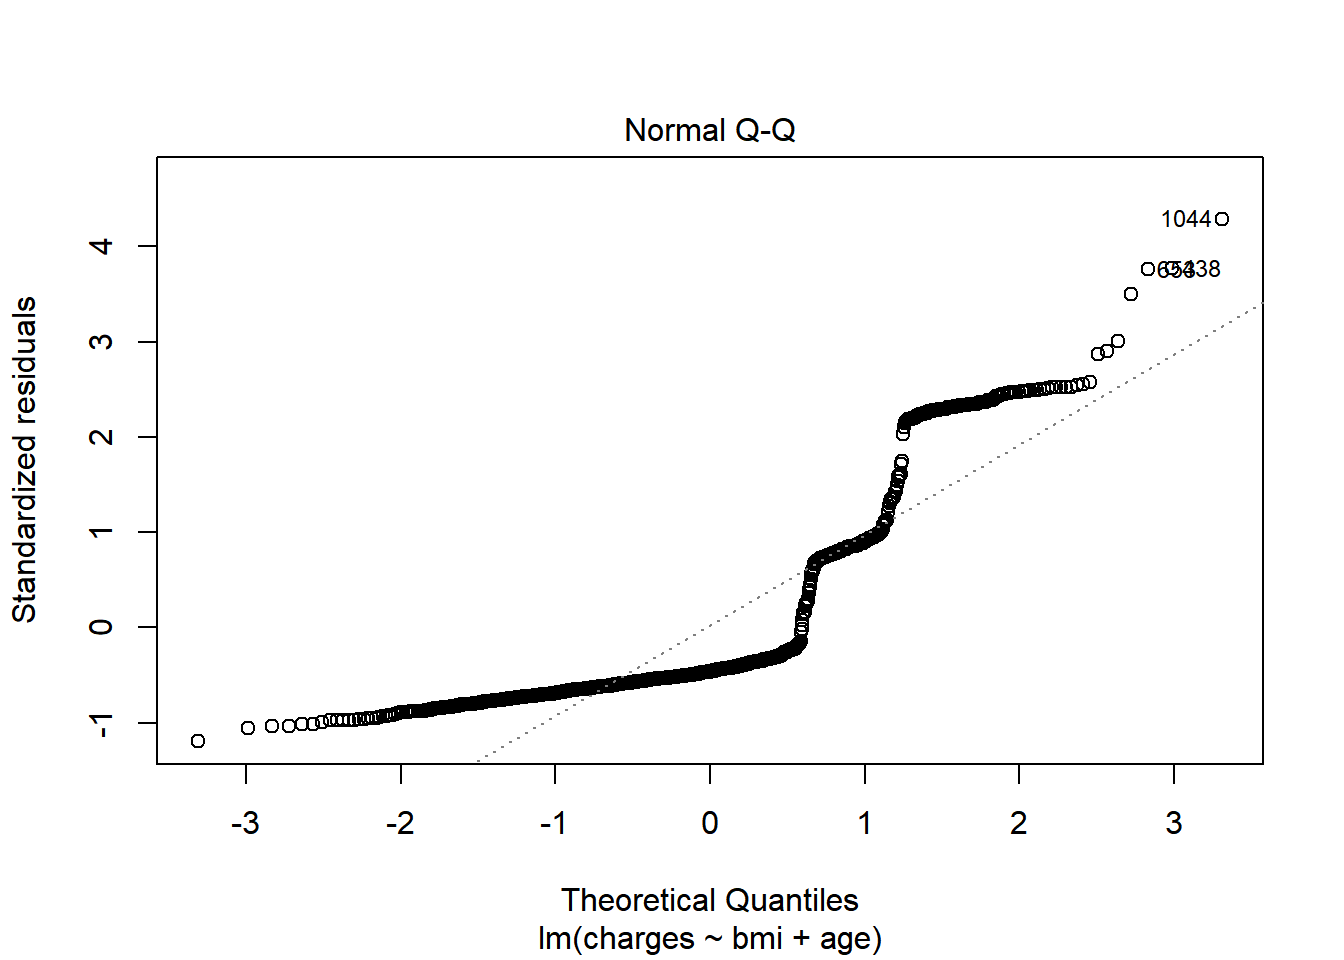
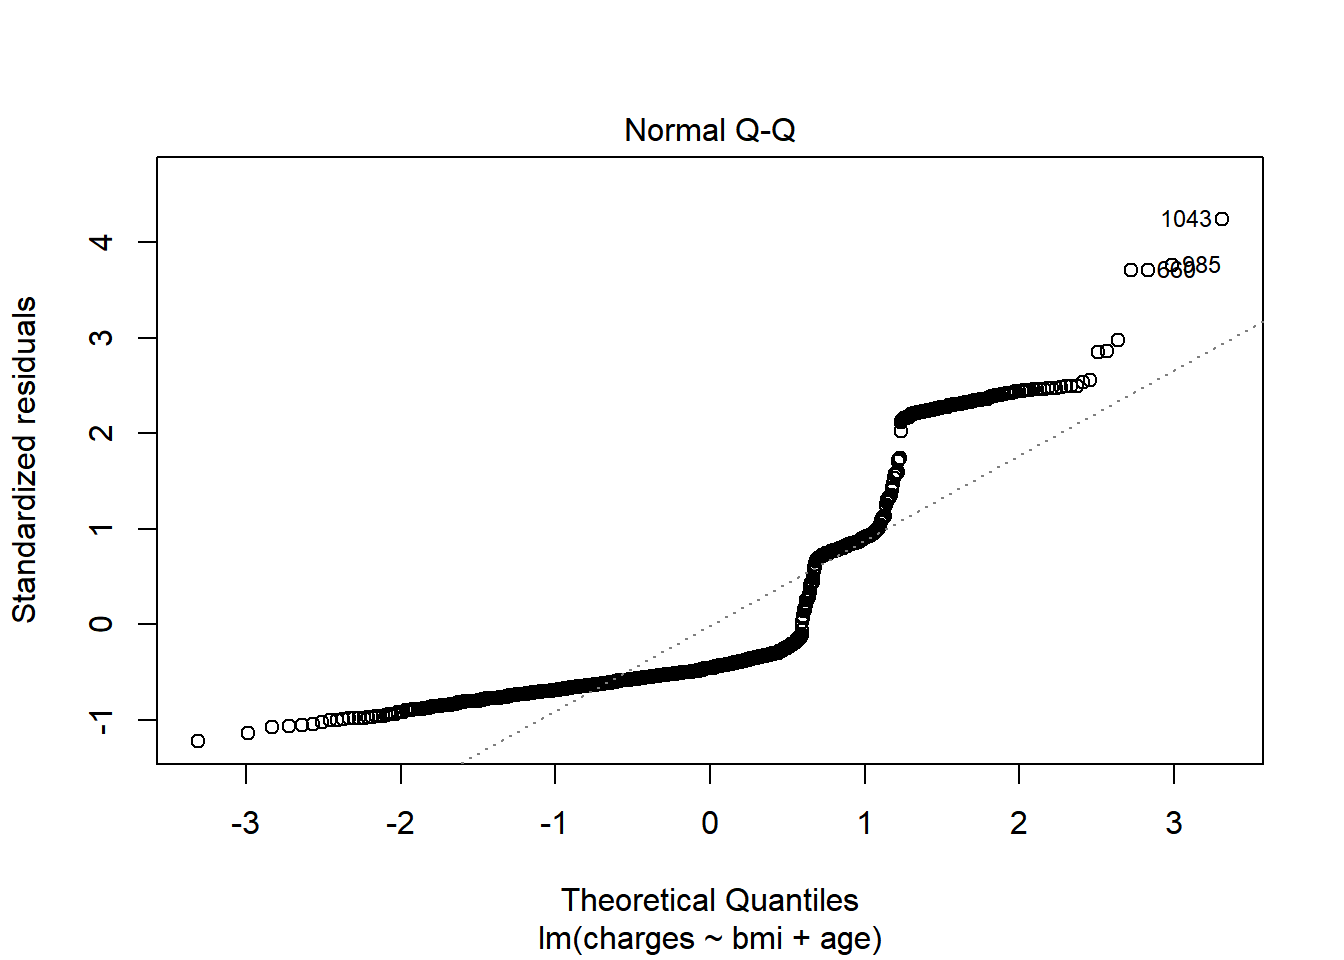
updated youtube

diff --git a/docs/introduction-to-modeling.html b/docs/introduction-to-modeling.html
@@ -24,7 +24,7 @@
 <meta name="author" content="Sam Castillo" />
 
 
-<meta name="date" content="2019-11-12" />
+<meta name="date" content="2019-11-13" />
 
   <meta name="viewport" content="width=device-width, initial-scale=1" />
   <meta name="apple-mobile-web-app-capable" content="yes" />
@@ -369,10 +369,10 @@ To solve for <span class="math inline">\(\mathbf{\beta}\)</span>, we first need 
 <a class="sourceLine" id="cb171-3" title="3">}</a>
 <a class="sourceLine" id="cb171-4" title="4"></a>
 <a class="sourceLine" id="cb171-5" title="5"><span class="kw">get_rmse</span>(pred, test<span class="op">$</span>charges)</a></code></pre></div>
-<pre><code>## [1] 12084.27</code></pre>
+<pre><code>## [1] 11588.8</code></pre>
 <p>The above number does not tell us if this is a good model or not by itself. We need a comparison. The fastest check is to compare against a prediction of the mean. In other words, all values of the <code>y_hat</code> are the average of <code>charges</code></p>
 <div class="sourceCode" id="cb173"><pre class="sourceCode r"><code class="sourceCode r"><a class="sourceLine" id="cb173-1" title="1"><span class="kw">get_rmse</span>(<span class="kw">mean</span>(test<span class="op">$</span>charges), test<span class="op">$</span>charges)</a></code></pre></div>
-<pre><code>## [1] 12832.98</code></pre>
+<pre><code>## [1] 12356.33</code></pre>
 <p>The RMSE is <strong>higher</strong> (worse) when using just the mean, which is what we expect. <strong>If you ever fit a model and get an error which is worse than the average prediction, something must be wrong.</strong></p>
 <p>The next test is to see if any assumptions have been violated.</p>
 <p>First, is there a pattern in the residuals? If there is, this means that the model is missing key information. For the model below, this is a <strong>yes</strong>, which means that this is a bad model. Because this is just for illustration, I’m going to continue using it, however.</p>
@@ -391,7 +391,7 @@ Figure 8.1: Residuals vs. Fitted
 Figure 8.2: Normal Q-Q
 </p>
 </div>
-<p><strong>Caution: This test only applies to linear models which have a gaussian response distribution.</strong></p>
+<p><strong>Caution: The normal-QQ plot is useless when the target is count data (Poisson Regression) or binary (Logistic Regression or other model with a binomial response family.</strong></p>
 <p>The below is from an excellent post of Stack Exchange.</p>
 <blockquote>
 <p>R does not have a distinct plot.glm() method. When you fit a model with glm() and run plot(), it calls ?plot.lm, which is appropriate for linear models (i.e., with a normally distributed error term).</p>
@@ -416,24 +416,24 @@ Figure 8.2: Normal Q-Q
 <tr class="odd">
 <td align="left">(Intercept)</td>
 <td align="right">1744.1</td>
-<td align="right">4121.1</td>
+<td align="right">4093.9</td>
 </tr>
 <tr class="even">
 <td align="left">bmi</td>
 <td align="right">51.4</td>
-<td align="right">118.3</td>
+<td align="right">119.7</td>
 </tr>
 <tr class="odd">
 <td align="left">age</td>
 <td align="right">22.3</td>
-<td align="right">52.4</td>
+<td align="right">50.2</td>
 </tr>
 </tbody>
 </table>
 <p>All interpretations should be based on the model which was trained on the entire data set. Obviously, this only makes a difference if you are interpreting the precise values of the coefficients. If you are just looking at which variables are included, or at the size and sign of the coefficients, then this would not change.</p>
 <div class="sourceCode" id="cb178"><pre class="sourceCode r"><code class="sourceCode r"><a class="sourceLine" id="cb178-1" title="1"><span class="kw">coefficients</span>(model)</a></code></pre></div>
 <pre><code>## (Intercept)         bmi         age 
-##  -5482.9295    290.7664    248.1731</code></pre>
+##  -5867.2087    308.7116    243.8286</code></pre>
 <p>Translating the above into an equation we have</p>
 <p><span class="math display">\[\hat{y_i} = -6,424.80 + 332.97 \space\text{bmi} + 241.93\space \text{age}\]</span></p>
 <p>For example, if a patient has <code>bmi = 27.9</code> and <code>age = 19</code> then predicted value is</p>

diff --git a/docs/tree-based-models.html b/docs/tree-based-models.html
@@ -24,7 +24,7 @@
 <meta name="author" content="Sam Castillo" />
 
 
-<meta name="date" content="2019-11-12" />
+<meta name="date" content="2019-11-13" />
 
   <meta name="viewport" content="width=device-width, initial-scale=1" />
   <meta name="apple-mobile-web-app-capable" content="yes" />
@@ -325,10 +325,10 @@ code span.wa { color: #8f5902; font-weight: bold; font-style: italic; } /* Warni
 ##   nsplit      CP xerror
 ##    &lt;dbl&gt;   &lt;dbl&gt;  &lt;dbl&gt;
 ## 1      0 0.620    1.00 
-## 2      1 0.144    0.384
-## 3      2 0.0637   0.239
+## 2      1 0.144    0.382
+## 3      2 0.0637   0.240
 ## 4      3 0.00967  0.179
-## 5      4 0.00784  0.174
+## 5      4 0.00784  0.169
 ## 6      5 0.00712  0.167</code></pre>
 <p>As more splits are added, the cost continues to decrease, reaches a minimum, and then begins to increase.</p>
 <p><img src="06-tree-based-models_files/figure-html/unnamed-chunk-6-1.png" width="672" /></p>
@@ -342,12 +342,12 @@ code span.wa { color: #8f5902; font-weight: bold; font-style: italic; } /* Warni
 <pre><code>## # A tibble: 6 x 3
 ##   nsplit       CP xerror
 ##    &lt;dbl&gt;    &lt;dbl&gt;  &lt;dbl&gt;
-## 1     26 0.000610  0.150
-## 2     25 0.000681  0.150
-## 3     17 0.000913  0.151
-## 4     24 0.000695  0.151
-## 5     28 0.000578  0.151
-## 6     18 0.000910  0.151</code></pre>
+## 1     14 0.00119   0.151
+## 2     15 0.00116   0.151
+## 3      7 0.00196   0.151
+## 4     13 0.00134   0.152
+## 5     22 0.000759  0.153
+## 6     12 0.00137   0.153</code></pre>
 <p>The SOA will give you code to find the lowest CP value such as below. This may or may not be useful depending on if they are asking for predictive performance or interpretability.</p>
 <div class="sourceCode" id="cb226"><pre class="sourceCode r"><code class="sourceCode r"><a class="sourceLine" id="cb226-1" title="1">pruned_tree &lt;-<span class="st"> </span><span class="kw">prune</span>(tree,</a>
 <a class="sourceLine" id="cb226-2" title="2">                     <span class="dt">cp =</span> tree<span class="op">$</span>cptable[<span class="kw">which.min</span>(tree<span class="op">$</span>cptable[, <span class="st">&quot;xerror&quot;</span>]), <span class="st">&quot;CP&quot;</span>])</a></code></pre></div>

diff --git a/docs/index.html b/docs/index.html
@@ -24,7 +24,7 @@
 <meta name="author" content="Sam Castillo" />
 
 
-<meta name="date" content="2019-11-12" />
+<meta name="date" content="2019-11-13" />
 
   <meta name="viewport" content="width=device-width, initial-scale=1" />
   <meta name="apple-mobile-web-app-capable" content="yes" />
@@ -235,7 +235,7 @@ code span.wa { color: #8f5902; font-weight: bold; font-style: italic; } /* Warni
 <div id="header">
 <h1 class="title">Exam PA Study Manual</h1>
 <p class="author"><em>Sam Castillo</em></p>
-<p class="date"><em>2019-11-12</em></p>
+<p class="date"><em>2019-11-13</em></p>
 </div>
 <div id="whats-in-this-book" class="section level1">
 <h1><span class="header-section-number"> 1</span> What’s in this book</h1>
@@ -249,12 +249,17 @@ code span.wa { color: #8f5902; font-weight: bold; font-style: italic; } /* Warni
 <h2><span class="header-section-number">1.1</span> Get full access</h2>
 <p>While the ebook is available online, sign up at <a href="https://www.exampa.net/pricing">ExamPA.net</a> for</p>
 <ul>
-<li>Practice Exams + Video solutions</li>
-<li>Solutions to prior exams</li>
-<li>An online discussion forum</li>
+<li>Two <strong>original</strong> practice exams</li>
+<li>Solutions to prior exams
+<ul>
+<li>Hospital Readmissions (Completed)</li>
+<li>Student Success (Later this week)</li>
+<li>June 2019 Exam (Coming next week)</li>
+</ul></li>
+<li>An online discussion forum <strong>where I will answer your questions</strong></li>
 </ul>
 <p><strong>Video Example:</strong></p>
-<iframe width="560" height="315" src="https://www.youtube.com/embed/63HB7v3ZanU" frameborder="0" allow="accelerometer; autoplay; encrypted-media; gyroscope; picture-in-picture" allowfullscreen>
+<iframe width="560" height="315" src="https://www.youtube.com/embed/K7j5RG3Jgmk" frameborder="0" allow="accelerometer; autoplay; encrypted-media; gyroscope; picture-in-picture" allowfullscreen>
 </iframe>
 </div>
 <div id="about-the-author" class="section level2">

diff --git a/docs/data-manipulation.html b/docs/data-manipulation.html
@@ -24,7 +24,7 @@
 <meta name="author" content="Sam Castillo" />
 
 
-<meta name="date" content="2019-11-12" />
+<meta name="date" content="2019-11-13" />
 
   <meta name="viewport" content="width=device-width, initial-scale=1" />
   <meta name="apple-mobile-web-app-capable" content="yes" />

diff --git a/docs/generalized-linear-models-glms.html b/docs/generalized-linear-models-glms.html
@@ -24,7 +24,7 @@
 <meta name="author" content="Sam Castillo" />
 
 
-<meta name="date" content="2019-11-12" />
+<meta name="date" content="2019-11-13" />
 
   <meta name="viewport" content="width=device-width, initial-scale=1" />
   <meta name="apple-mobile-web-app-capable" content="yes" />

diff --git a/docs/getting-started.html b/docs/getting-started.html
@@ -24,7 +24,7 @@
 <meta name="author" content="Sam Castillo" />
 
 
-<meta name="date" content="2019-11-12" />
+<meta name="date" content="2019-11-13" />
 
   <meta name="viewport" content="width=device-width, initial-scale=1" />
   <meta name="apple-mobile-web-app-capable" content="yes" />

diff --git a/docs/logistic-regression.html b/docs/logistic-regression.html
@@ -24,7 +24,7 @@
 <meta name="author" content="Sam Castillo" />
 
 
-<meta name="date" content="2019-11-12" />
+<meta name="date" content="2019-11-13" />
 
   <meta name="viewport" content="width=device-width, initial-scale=1" />
   <meta name="apple-mobile-web-app-capable" content="yes" />

diff --git a/docs/penalized-linear-models.html b/docs/penalized-linear-models.html
@@ -24,7 +24,7 @@
 <meta name="author" content="Sam Castillo" />
 
 
-<meta name="date" content="2019-11-12" />
+<meta name="date" content="2019-11-13" />
 
   <meta name="viewport" content="width=device-width, initial-scale=1" />
   <meta name="apple-mobile-web-app-capable" content="yes" />

diff --git a/docs/practice-exams.html b/docs/practice-exams.html
@@ -24,7 +24,7 @@
 <meta name="author" content="Sam Castillo" />
 
 
-<meta name="date" content="2019-11-12" />
+<meta name="date" content="2019-11-13" />
 
   <meta name="viewport" content="width=device-width, initial-scale=1" />
   <meta name="apple-mobile-web-app-capable" content="yes" />

diff --git a/docs/r-programming.html b/docs/r-programming.html
@@ -24,7 +24,7 @@
 <meta name="author" content="Sam Castillo" />
 
 
-<meta name="date" content="2019-11-12" />
+<meta name="date" content="2019-11-13" />
 
   <meta name="viewport" content="width=device-width, initial-scale=1" />
   <meta name="apple-mobile-web-app-capable" content="yes" />

diff --git a/docs/the-exam.html b/docs/the-exam.html
@@ -24,7 +24,7 @@
 <meta name="author" content="Sam Castillo" />
 
 
-<meta name="date" content="2019-11-12" />
+<meta name="date" content="2019-11-13" />
 
   <meta name="viewport" content="width=device-width, initial-scale=1" />
   <meta name="apple-mobile-web-app-capable" content="yes" />

diff --git a/docs/visualization.html b/docs/visualization.html
@@ -24,7 +24,7 @@
 <meta name="author" content="Sam Castillo" />
 
 
-<meta name="date" content="2019-11-12" />
+<meta name="date" content="2019-11-13" />
 
   <meta name="viewport" content="width=device-width, initial-scale=1" />
   <meta name="apple-mobile-web-app-capable" content="yes" />
